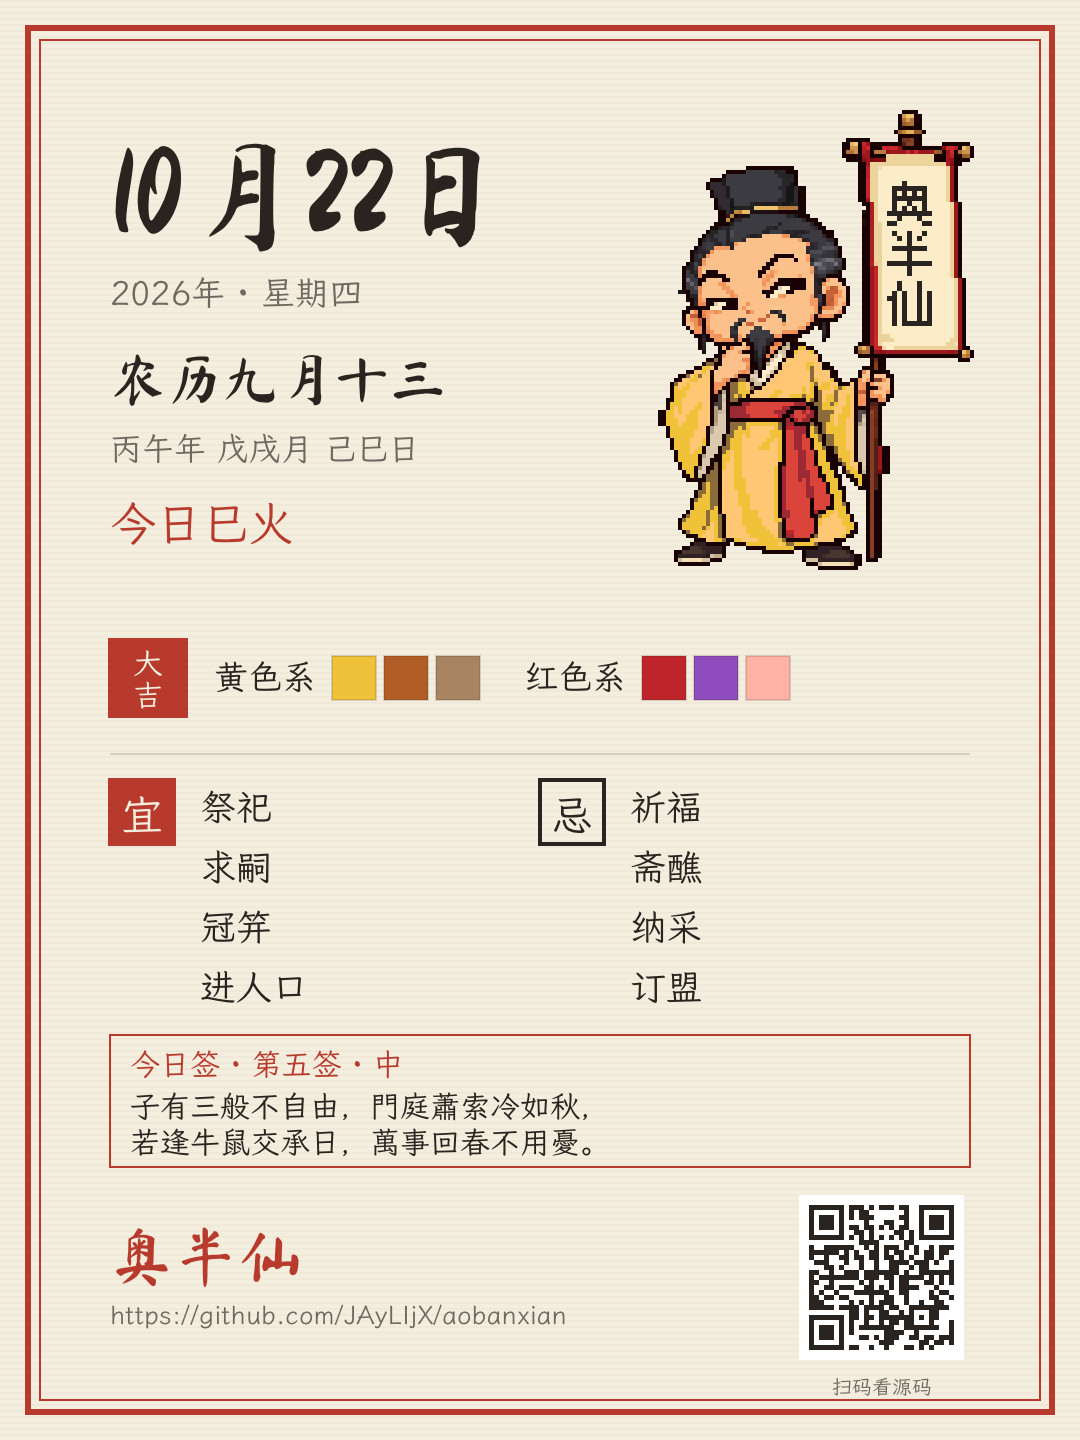
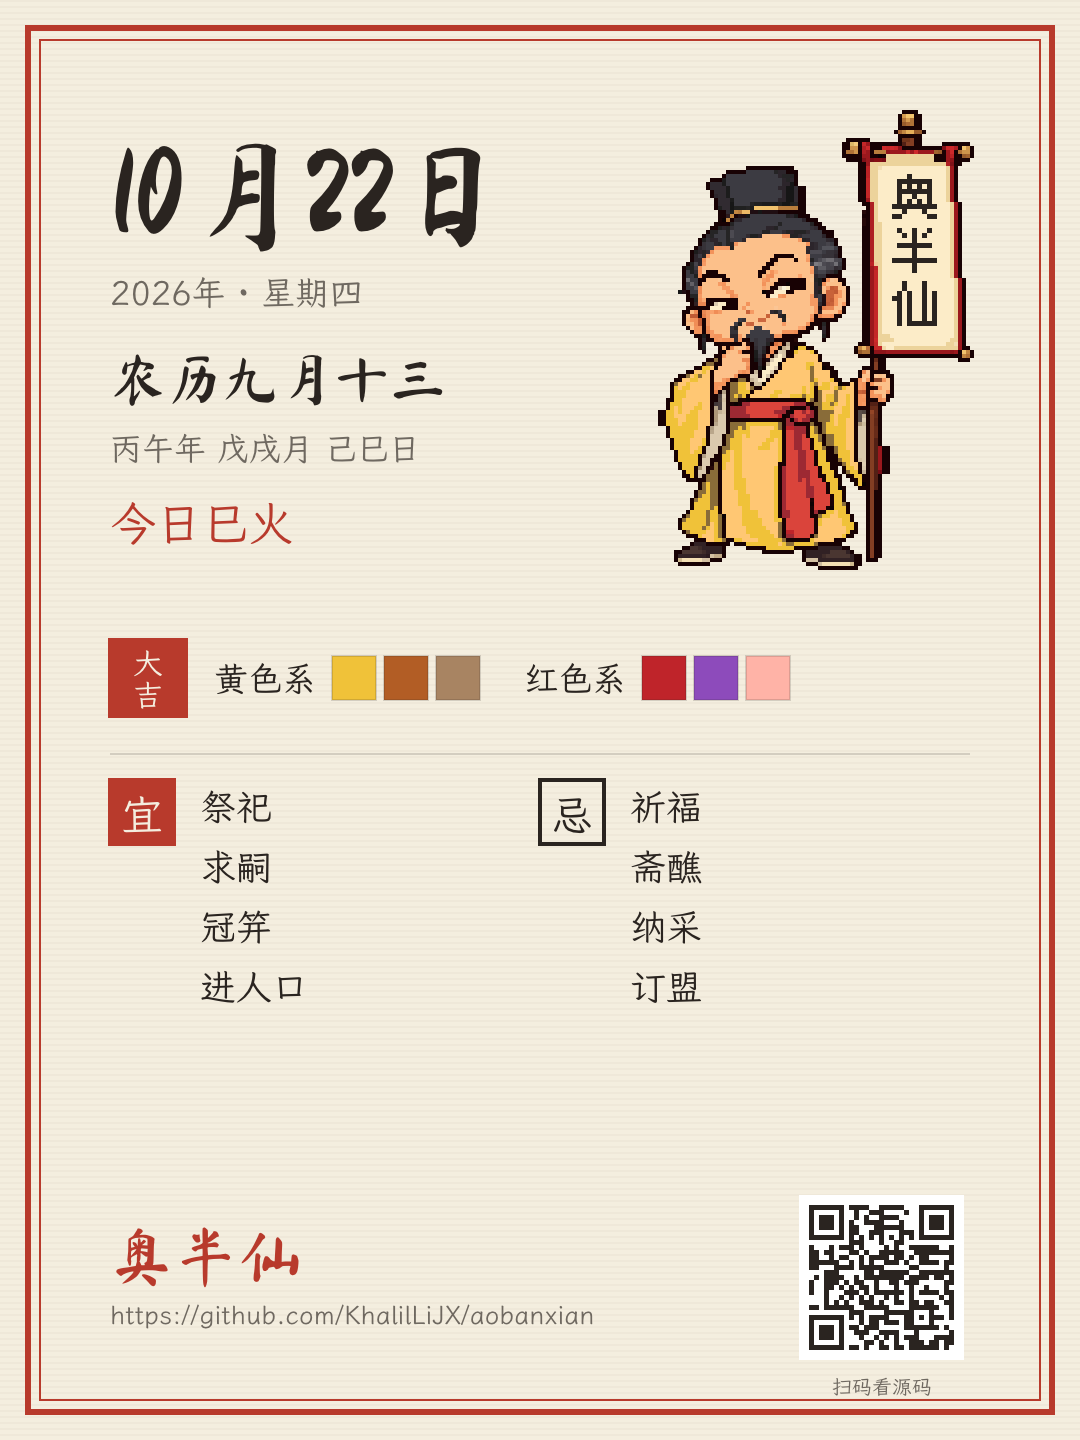
作者和仓库地址集中到 config/branding.json；GitHub 改名为 KhalilLiJX
- branding.json 新增 author、repository；关于窗口、分享图（地址和二维码）都从这里读，删掉 config/about.json
- README 用相对链接指向 Releases、作者信息指向 branding.json；Cargo.toml 去掉 authors
- 测试：项目文件里不能出现旧用户名（git 历史除外）；仓库地址在作者名下
- preview/v0.2/share.png 用新地址重新生成，二维码扫出来是新仓库地址
- 本项目提交邮箱改为 233702013+KhalilLiJX@users.noreply.github.com（不改写旧提交）

diff --git a/tests/username.test.ts b/tests/username.test.ts
@@ -1,0 +1,50 @@
+import { readdirSync, readFileSync, statSync } from "node:fs";
+import { join } from "node:path";
+import { describe, expect, it } from "vitest";
+import branding from "../config/branding.json";
+
+/** 旧的 GitHub 用户名（拆开写，免得这个测试文件自己就含有它） */
+const OLD = ["JAy", "LI", "jX"].join("");
+
+/** 不检查的目录：git 历史、依赖、构建产物、本地工具 */
+const SKIP = new Set([".git", "node_modules", "target", "dist", ".venv-tools", "fonts-src", "gen"]);
+
+function files(dir: string, out: string[] = []): string[] {
+  for (const name of readdirSync(dir)) {
+    if (SKIP.has(name)) continue;
+    const p = join(dir, name);
+    if (statSync(p).isDirectory()) files(p, out);
+    else out.push(p);
+  }
+  return out;
+}
+
+describe("改 GitHub 用户名", () => {
+  const all = files(".");
+
+  it("项目文件里不再出现旧用户名（不区分大小写，git 历史除外）", () => {
+    const re = new RegExp(OLD, "i");
+    const hits: string[] = [];
+    for (const f of all) {
+      if (re.test(f)) hits.push(`${f}（文件名）`);
+      const buf = readFileSync(f);
+      // 只看文本文件：前 8KB 里有 0 字节的当作二进制
+      if (buf.subarray(0, 8192).includes(0)) continue;
+      if (re.test(buf.toString("utf8"))) hits.push(f);
+    }
+    expect(hits).toEqual([]);
+  });
+
+  it("作者和仓库地址只写在 config/branding.json，仓库在作者名下", () => {
+    expect(branding.author).toMatch(/^[A-Za-z0-9-]+$/);
+    expect(branding.repository).toBe(`https://github.com/${branding.author}/aobanxian`);
+    // 其他地方不再单独写作者名（README 指向 branding.json，Cargo.toml 不写 authors）
+    expect(readFileSync("src-tauri/Cargo.toml", "utf8")).not.toMatch(/^authors\s*=/m);
+    expect(readFileSync("README.md", "utf8")).not.toContain(`github.com/${branding.author}`);
+    for (const f of ["src/windows/AboutApp.tsx", "src/windows/ShareApp.tsx"]) {
+      const src = readFileSync(f, "utf8");
+      expect(src, f).toContain("config/branding.json");
+      expect(src, f).not.toContain(branding.author);
+    }
+  });
+});

diff --git a/tests/share.test.ts b/tests/share.test.ts
@@ -1,6 +1,6 @@
 import jsQR from "jsqr";
 import { describe, expect, it } from "vitest";
-import about from "../config/about.json";
+import branding from "../config/branding.json";
 import { qrMatrix, qrPixelRect, renderShareImage, shareLayout, SHARE_H, SHARE_W, type Rect, type ShareContent } from "../src/share/shareImage";
 
 /** 只实现 fillRect 的假 canvas：把实心色块画进 RGBA 缓冲区，文字、描边忽略 */
@@ -81,7 +81,7 @@ const content = (withLot: boolean): ShareContent => ({
   yi: ["祭祀", "出行", "嫁娶", "开市"],
   ji: ["动土", "安葬", "破土", "作灶"],
   brand: "奥半仙",
-  url: about.repository,
+  url: branding.repository,
   scanHint: "扫码看源码",
   lot: withLot ? { title: "今日签 · 第十八签 · 中", poem: ["知君指擬是空華", "底事茫茫未有涯", "牢把腳根踏實地", "善為善應永無差"] } : undefined,
   sprite: { pixels: new Uint8ClampedArray(79 * 115 * 4), w: 79, h: 115 },
@@ -110,15 +110,15 @@ describe("分享今日图片", () => {
   });
 
   it("二维码能扫出仓库地址（从画好的图里截出来解码）", () => {
-    expect(qrMatrix(about.repository).length).toBeGreaterThanOrEqual(21);
+    expect(qrMatrix(branding.repository).length).toBeGreaterThanOrEqual(21);
     for (const withLot of [false, true]) {
       const c = fakeCanvas();
       renderShareImage(c as unknown as HTMLCanvasElement, content(withLot));
-      const r = qrPixelRect(about.repository, withLot);
+      const r = qrPixelRect(branding.repository, withLot);
       const px = c.pixels();
       const crop = new Uint8ClampedArray(r.w * r.h * 4);
       for (let y = 0; y < r.h; y++) crop.set(px.subarray(((r.y + y) * SHARE_W + r.x) * 4, ((r.y + y) * SHARE_W + r.x + r.w) * 4), y * r.w * 4);
-      expect(jsQR(crop, r.w, r.h)?.data).toBe("https://github.com/KhalilLiJX/aobanxian");
+      expect(jsQR(crop, r.w, r.h)?.data).toBe(branding.repository);
     }
   });
 });

diff --git a/src/windows/AboutApp.tsx b/src/windows/AboutApp.tsx
@@ -3,7 +3,7 @@ import { getCurrentWindow } from "@tauri-apps/api/window";
 import { openUrl } from "@tauri-apps/plugin-opener";
 import { useEffect, useState } from "react";
 import { useTranslation } from "react-i18next";
-import about from "../../config/about.json";
+import branding from "../../config/branding.json";
 import { setLanguage } from "../i18n";
 import { inTauri } from "../platform/window";
 import { useSettings } from "../settings/useSettings";
@@ -30,16 +30,16 @@ export function AboutApp() {
       <p className="about__tagline">{t("app.tagline")}</p>
       {version && <p className="muted">{t("about.version", { version })}</p>}
       <dl className="facts about__facts">
-        <dt>{t("about.author")}</dt>
+        <dt>{t("branding.author")}</dt>
         <dd>
-          <button type="button" className="text-btn" onClick={() => open(`https://github.com/${about.author}`)}>
-            {about.author}
+          <button type="button" className="text-btn" onClick={() => open(`https://github.com/${branding.author}`)}>
+            {branding.author}
           </button>
         </dd>
         <dt>{t("about.repo")}</dt>
         <dd>
-          <button type="button" className="text-btn" onClick={() => open(about.repository)}>
-            {about.repository.replace("https://", "")}
+          <button type="button" className="text-btn" onClick={() => open(branding.repository)}>
+            {branding.repository.replace("https://", "")}
           </button>
         </dd>
       </dl>

diff --git a/src/windows/ShareApp.tsx b/src/windows/ShareApp.tsx
@@ -3,7 +3,6 @@ import { writeImage } from "@tauri-apps/plugin-clipboard-manager";
 import { mkdir, writeFile } from "@tauri-apps/plugin-fs";
 import { useEffect, useMemo, useRef, useState } from "react";
 import { useTranslation } from "react-i18next";
-import about from "../../config/about.json";
 import branding from "../../config/branding.json";
 import { getDayDetail } from "../calendar/day";
 import { chineseNumber } from "../components/LotPaper";
@@ -81,7 +80,7 @@ export function ShareApp() {
         yi: detail.yi.length ? detail.yi.slice(0, 4).map((w) => term("yiji", w, lang)) : [lang === "en" ? t("share.noYi") : branding.banner.noYi],
         ji: detail.ji.length ? detail.ji.slice(0, 4).map((w) => term("yiji", w, lang)) : [lang === "en" ? t("share.noJi") : branding.banner.noJi],
         brand: t("app.name"),
-        url: about.repository,
+        url: branding.repository,
         scanHint: t("share.scan"),
         lot:
           withLot && l
@@ -134,6 +133,11 @@ export function ShareApp() {
       setBusy(false);
     }
   };
+
+  // 开发版：?view=share&raw=1 只显示 1080×1440 原尺寸的图（无头 Chrome 截图出预览图用）
+  if (import.meta.env.DEV && new URLSearchParams(location.search).get("raw")) {
+    return <canvas ref={canvasRef} width={SHARE_W} height={SHARE_H} style={{ display: "block", width: SHARE_W, height: SHARE_H }} />;
+  }
 
   return (
     <main className="tool paper share">

diff --git a/CLAUDE.md b/CLAUDE.md
@@ -24,8 +24,7 @@ Python 工具（精灵图、字体）用项目里的 `.venv-tools`（已在 .git
 rules/default.json         五行规则（流派）：取法、小人配色、换日、色系名、色系、像素色阶、四档文字、解释句、小贴士
 config/
   settings.default.json    应用设置的默认值
-  branding.json            幡上的字（bannerText、宜忌前缀、兜底文字、特殊日子文字）
-  about.json               关于窗口的作者、仓库
+  branding.json            作者和仓库地址（author、repository）、幡上的字（bannerText、宜忌前缀、兜底文字、特殊日子文字）
 locales/
   zh-CN.json zh-TW.json en.json   界面文字（i18next）
   glossary.json            术语表：历法、宜忌、颜色等的英文 / 繁体
@@ -190,6 +189,12 @@ JSON 结构：`id`、`writing`（`vertical` 竖排 / `horizontal` 横排）、`b
 - 内容只由当天的历法数据决定（`openingFor`），所以「掐指一算」重播的和当天第一次说的一致；气泡还在时再触发会重新计时。
 - 黄道日 = 值神青龙、明堂、金匮、天德、玉堂、司命（lunar-javascript 的 `getDayTianShenType`）。
 - 天赦日按月建分季（寅卯辰春、巳午未夏、申酉戌秋、亥子丑冬，等价于按立春 / 立夏 / 立秋 / 立冬划分）；杨公忌按农历月日表。优先级 天赦 > 传统节日 > 节气 > 杨公忌。2026 年的 6 个天赦日已与公开日历核对（测试里有）。
+
+## 作者和仓库地址（改 GitHub 用户名时看这里）
+
+- 作者的 GitHub 用户名和仓库地址**只写在 `config/branding.json` 的 `author`、`repository`**：关于窗口（作者链接、仓库链接）、分享图上的仓库地址和二维码都从这里读。README 用相对链接（`../../releases`）并指向这个文件，`Cargo.toml` 不写 `authors`。
+- GitHub 改名后：改这两项；`git remote set-url origin https://github.com/<新用户名>/aobanxian.git`；本项目的 `git config user.email` 改成 `<id>+<新用户名>@users.noreply.github.com`（id 用 `gh api user --jq .id` 查，不变）。**不要改写已有提交**，旧提交的带 id 隐私邮箱 GitHub 仍算在同一个账号名下。
+- `tests/username.test.ts` 检查项目文件里不再出现旧用户名（git 历史除外），并检查分享图二维码扫出来就是 `repository`。
 
 ## 设置
 

diff --git a/README.md b/README.md
@@ -47,7 +47,7 @@
 
 ## 安装
 
-到 [Releases](https://github.com/KhalilLiJX/aobanxian/releases) 下载：
+到本仓库的 [Releases](../../releases) 下载：
 
 - macOS：`AoBanxian_x.y.z_universal.dmg`（Intel 和 Apple 芯片通用）
 - Windows：`AoBanxian_x.y.z_x64-setup.exe`（推荐）或 `AoBanxian_x.y.z_x64.msi`
@@ -168,8 +168,8 @@ npm run tauri dev
 都在配置里，fork 后可以改成自己的：
 
 - `config/branding.json`：幡上平时的文字 `bannerText`（默认「奥半仙」）、宜忌前缀、大吉色的写法（`luckyColors`，默认「宜{first}宜{second}」）、「诸事不宜」「百无禁忌」、特殊日子的幡面文字。幡上的字是画的一部分，所有语言下都保持中文
-- `locales/*.json` 的 `opening`：每日开场白（每种语言一份）
-- `config/about.json`：关于窗口里的作者和仓库
+- `config/branding.json` 的 `author`、`repository`：作者的 GitHub 用户名和仓库地址（关于窗口、分享图上的地址和二维码都从这里读）
+- `assets/character/<id>/character.json` 的 `voice`：每个角色的开场白和右键菜单第一项（三种语言）
 
 特殊日子同一天重合时，按 天赦日 > 传统节日 > 节气 > 杨公忌日 取一个：
 
@@ -199,8 +199,7 @@ npm run tauri dev
 
 ## 关于
 
-- 作者：[KhalilLiJX](https://github.com/KhalilLiJX)
-- 仓库：https://github.com/KhalilLiJX/aobanxian
+- 作者、仓库地址：见 [`config/branding.json`](config/branding.json) 的 `author`、`repository`
 - 协议：代码以 [MIT](LICENSE) 开源；字体各自遵循 SIL Open Font License 1.1
 - 致谢：
   - [lunar-javascript](https://github.com/6tail/lunar-javascript)（6tail）——历法数据
